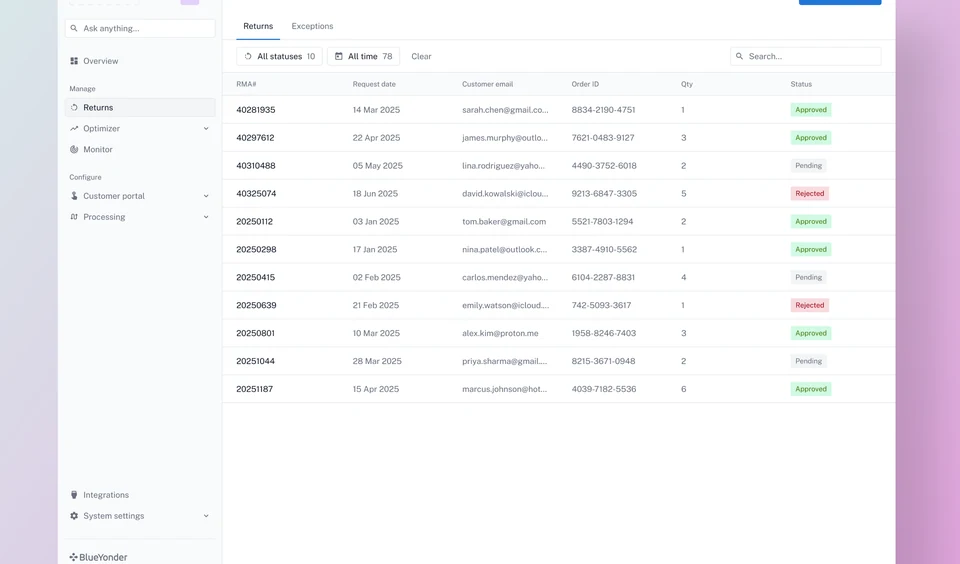
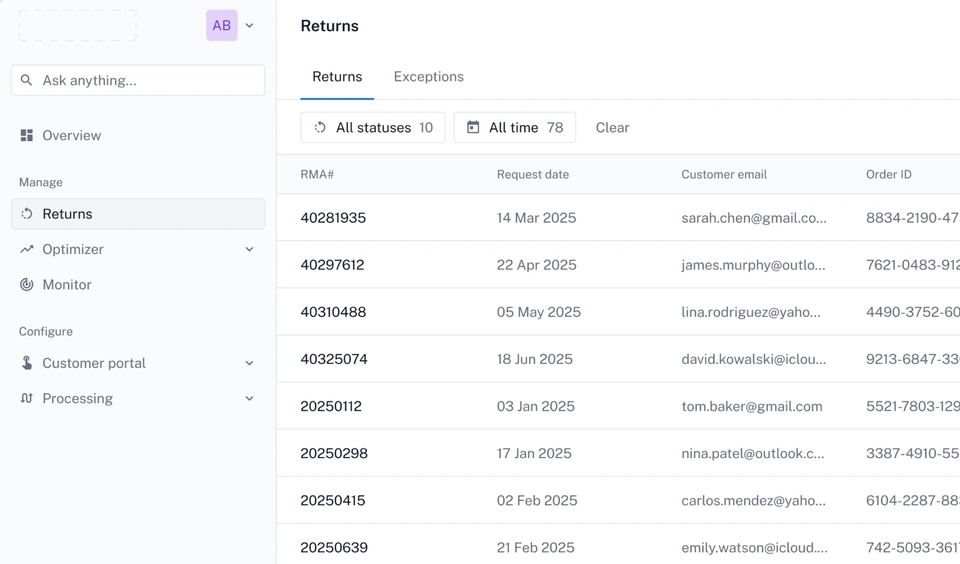
Refine real-screen crops and retain the negative-space brand mark

diff --git a/app/folio-home.css b/app/folio-home.css
@@ -12,11 +12,12 @@
   min-height:clamp(372px,27vw,450px); padding:clamp(2rem,4.2vw,5rem) clamp(2rem,8.8vw,10rem) 2rem;
   display:grid; grid-template-columns:1.16fr .84fr; column-gap:clamp(3rem,10vw,12rem);
 }
-.folio-hero h1 { margin:0; font-size:clamp(4.6rem,7.05vw,8.3rem); line-height:.96; letter-spacing:-.063em; font-weight:400; }
+.folio-hero h1 { margin:0; font-size:clamp(4.6rem,7.3vw,8.3rem); line-height:.96; letter-spacing:-.049em; font-weight:400; }
 .folio-hero h1 span { display:block; }
-.folio-hero h1 i { color:var(--aqua); font-style:normal; }
+.folio-hero h1 i { display:inline-block; width:.13em; height:.13em; margin-left:.025em; overflow:hidden; border-radius:50%; color:transparent; background:var(--aqua); font-style:normal; }
 .folio-intro { align-self:end; font-size:clamp(1.35rem,1.95vw,2.15rem); line-height:1.13; letter-spacing:-.028em; }
 .folio-intro > p + p { margin-top:.55rem; }
+.folio-intro > p:nth-child(2) { max-width:13.6em; }
 .folio-intro .folio-tags { font:550 clamp(.82rem,1.22vw,1.25rem)/1.5 'Portfolio Geist Mono',monospace; color:var(--aqua); letter-spacing:.005em; margin-top:.75rem; }
 .folio-primary {
   pointer-events:auto; display:inline-flex; align-items:center; gap:.7rem; min-height:50px; margin-top:1.25rem;

diff --git a/app/page.tsx b/app/page.tsx
@@ -18,7 +18,7 @@ export const metadata: Metadata = {
 
 const featured = [
   { slug: "returns-platform", title: "Doddle Returns Platform", tag: "B2B SaaS | Reverse logistics",
-    image: "/folio-work/doddle.webp", alt: "Doddle’s retailer dashboard showing returns and their status",
+    image: "/folio-work/doddle.webp", alt: "Doddle’s returns dashboard showing request dates, customers and order references",
     summary: "Returns orchestration for major retailers" },
   { slug: "rio", title: "Rio: AI field ticketing", tag: "AI workflows | Energy",
     image: "/folio-work/rio.webp", alt: "Rio service entry sheets with approval statuses and supplier details",

diff --git a/components/portfolio-navigation.css b/components/portfolio-navigation.css
@@ -31,7 +31,7 @@
   color: var(--folio-paper);
 }
 .folio-nav nav { max-width: 106rem; margin-inline: auto; height: 4.75rem; padding-inline: var(--folio-gutter); }
-.folio-nav nav > a img { width: 44px; height: auto; filter: brightness(0) invert(1); }
+.folio-nav nav > a img { width: 44px; height: auto; filter: invert(1); mix-blend-mode: screen; }
 .folio-nav nav > a > span:first-child { width: 44px; height: 44px; }
 .folio-nav nav > a > span:nth-child(2) {
   display: block; font-size: clamp(.8rem, 1.7vw, 1.55rem); letter-spacing: .075em;
